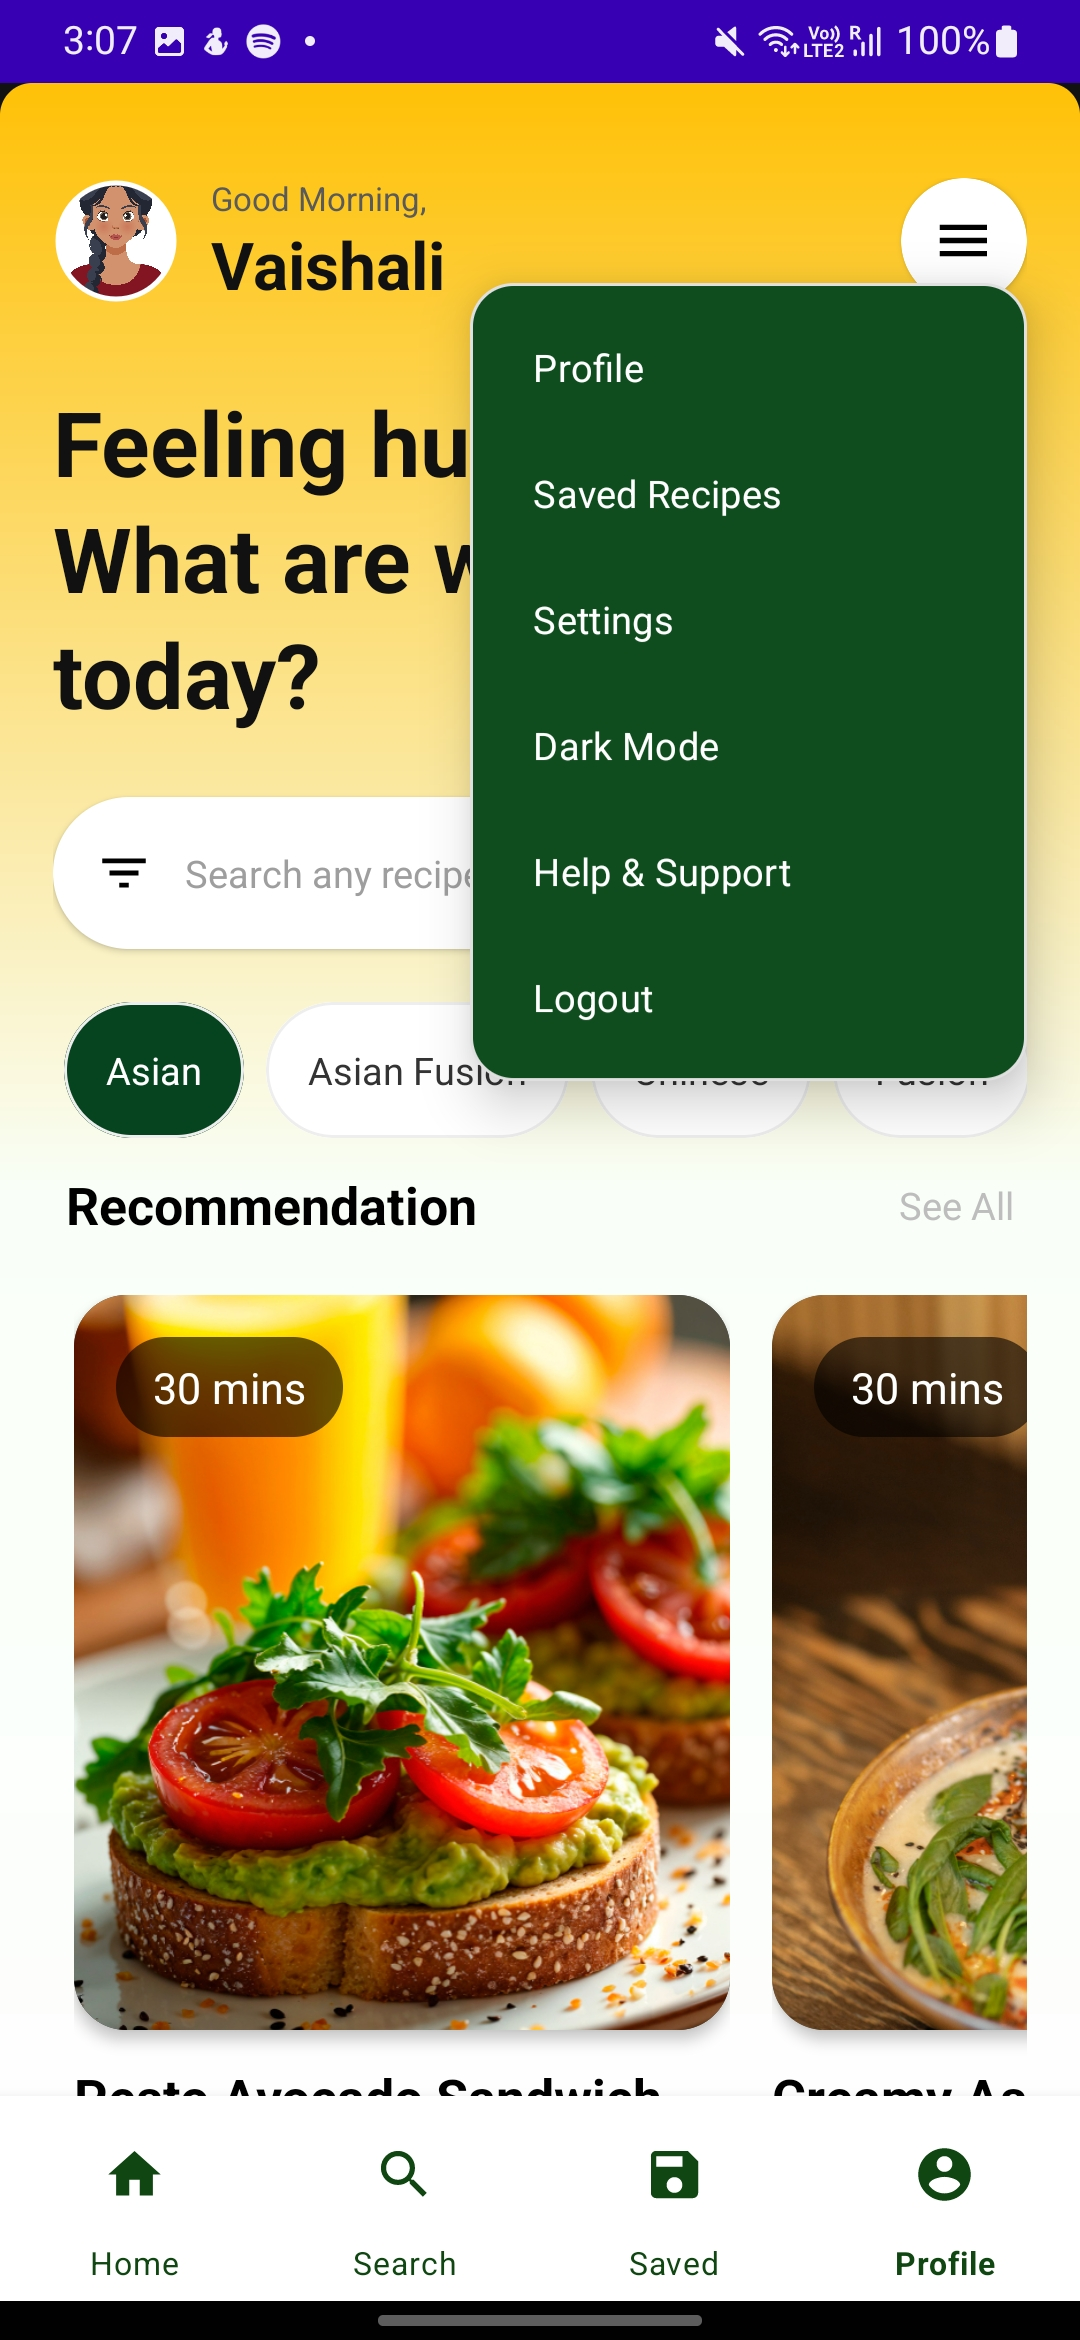
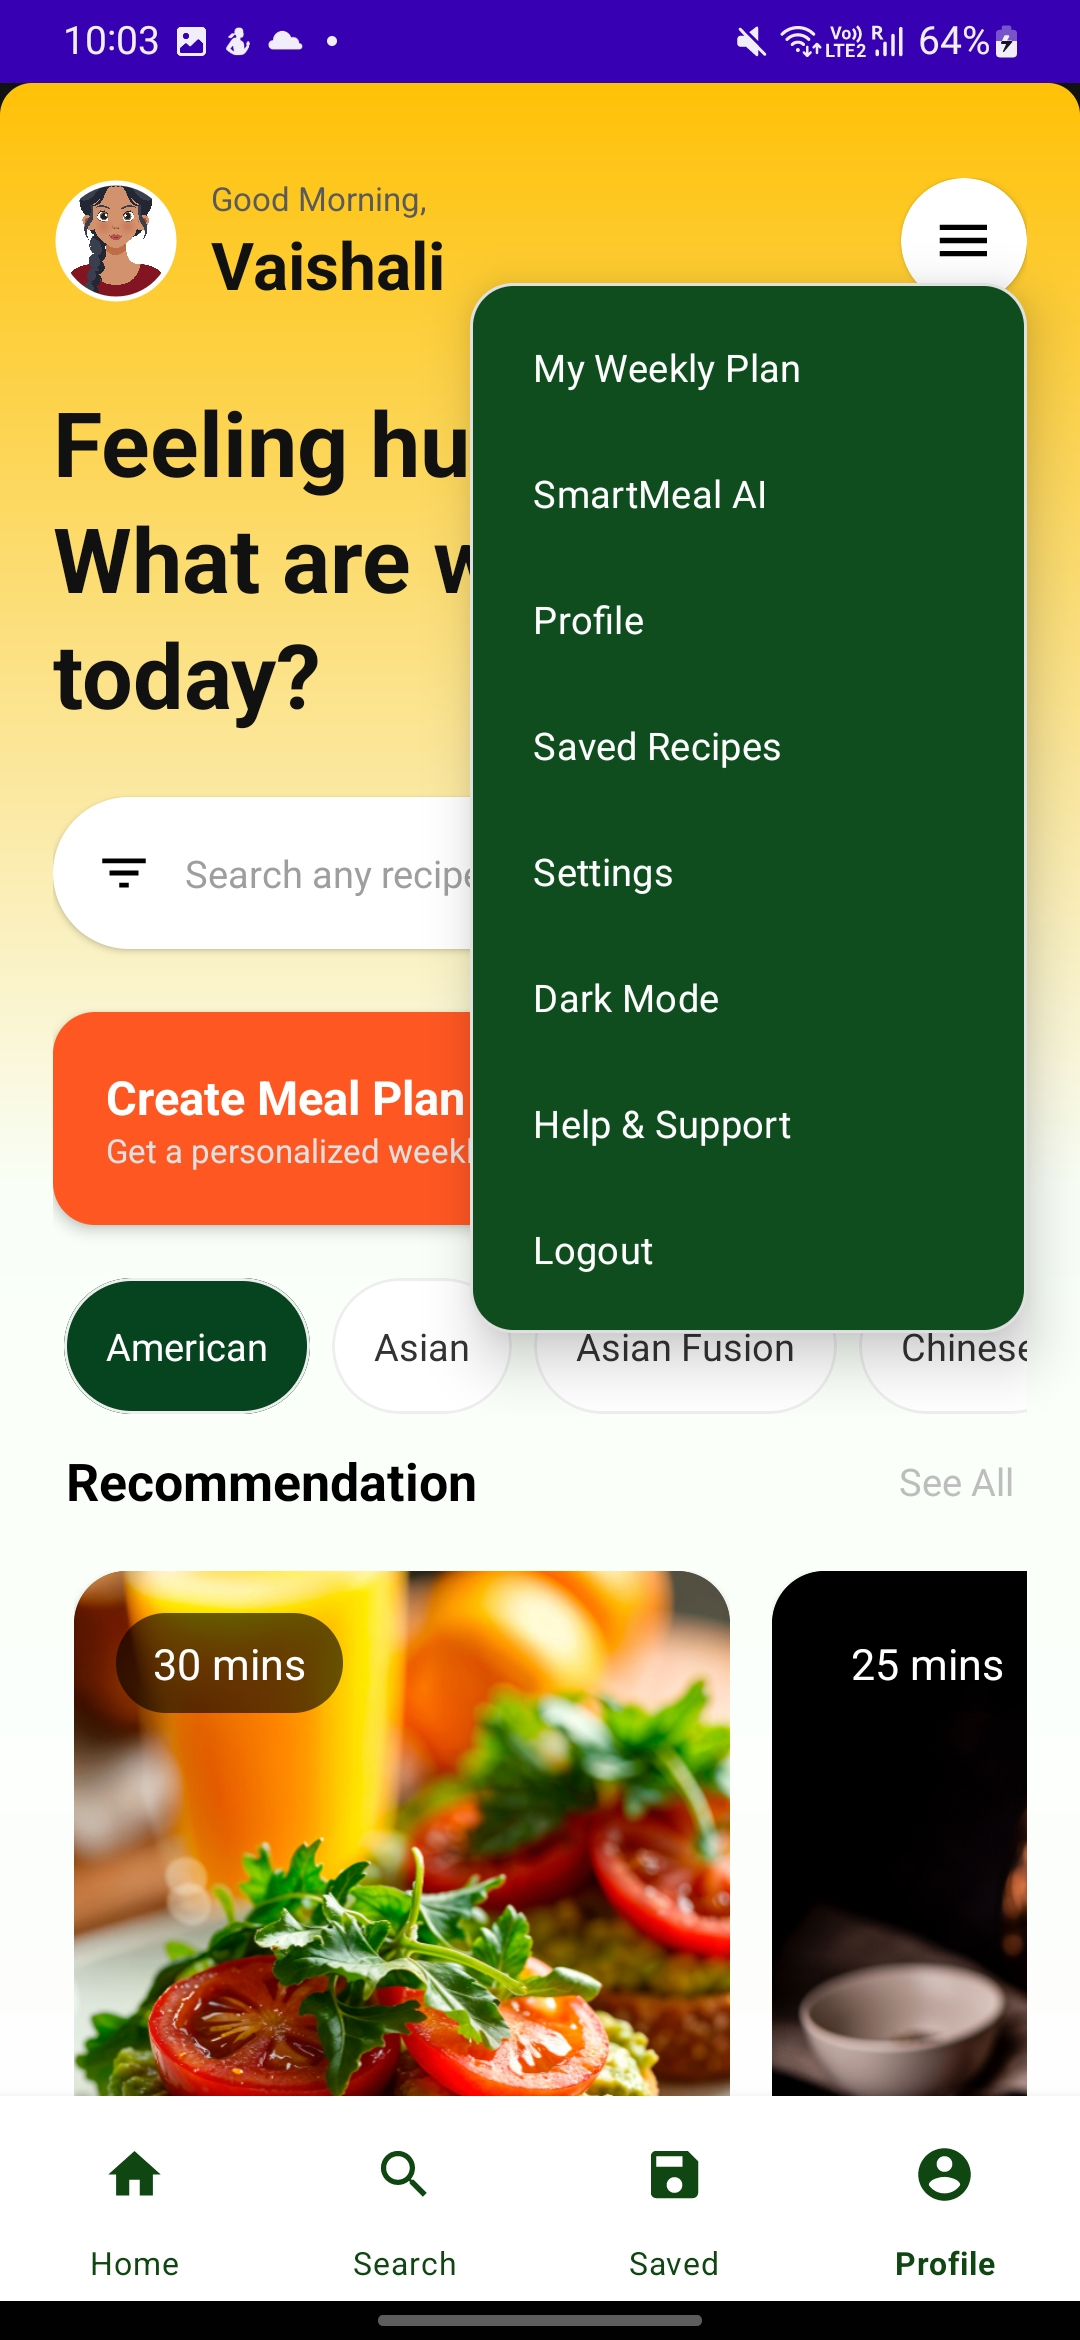
Added All Screenshots to ReadMe

diff --git a/README.md b/README.md
@@ -711,4 +711,28 @@ Built as a full-stack software engineering project to explore modern application
 
 <img src="docs/images/SMP_MenuOptions.jpg" width="250">
 
+### Meal Plan
+
+<img src="docs/images/SMP_MealPlanPage.jpg" width="250">
+
+### My Weekly Plan
+
+<img src="docs/images/SMP_MyWeeklyPlan.jpg" width="250">
+
+### My Weekly Plan Continue
+
+<img src="docs/images/SMP_MyWeeklyPlan2.jpg" width="250">
+
+### SmartMeal AI Assistant
+
+<img src="docs/images/SMP_SmartMealAIPage.jpg" width="250">
+
+### Chat Page
+
+<img src="docs/images/SMP_ChatPage.jpgg" width="250">
+
+### Chat Response
+
+<img src="docs/images/SMP_ChatResponse.jpg" width="250">
+
 ---
